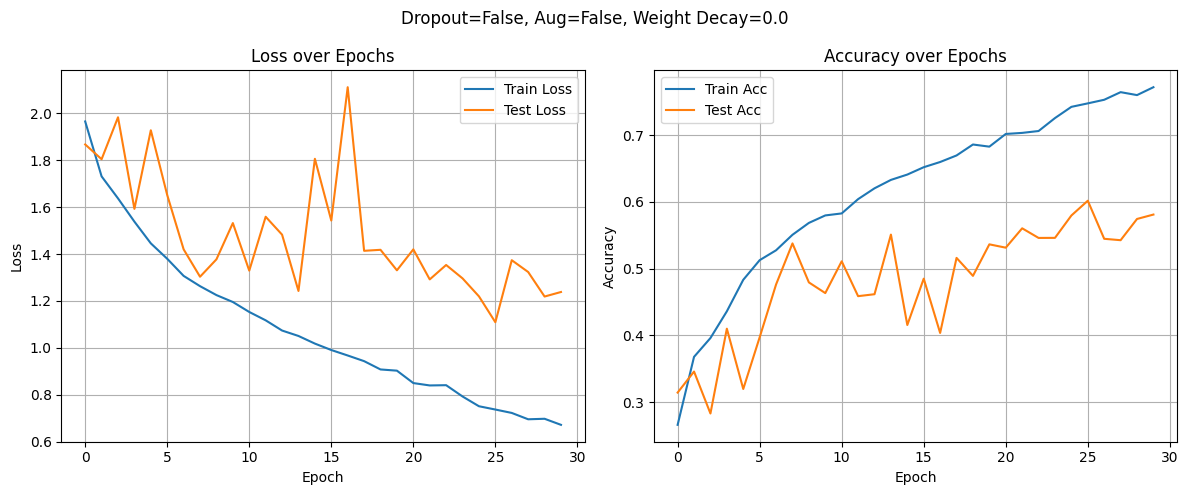
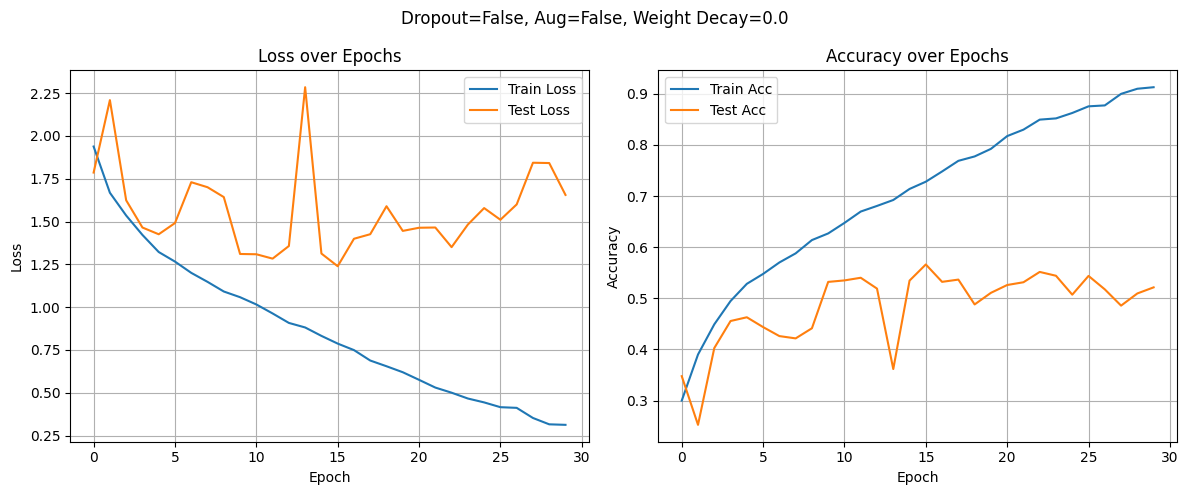
modified code

diff --git a/results/result.md b/results/result.md
@@ -1,38 +1,28 @@
 ## Discussion
 
-- Dropout이 단일 기법으로는 가장 효과적이었음
-- 데이터 증강은 단독으로 사용될 경우 효과가 제한적
-- 실험 B가 가장 안정적인 모델임을 관찰함
-- 과적합 감소 vs 성능 trade-off
+
 
 ---
 
 ## Experiment A: Basic model (Observe overfitting)
 - run_experiment(dropout=False, use_aug=False, weight_decay=0.0)
 - 정규화 기법을 사용하지 않은 기본 모델
-- Train Acc: 77.16%, Test Acc: 58.09%
-- Train Loss: 0.6719, Test Loss: 1.2383
-- 강한 과적합 관찰됨
+- Train Loss: 0.3127, Acc: 0.9128 | Test Loss: 1.6552, Acc: 0.5213
 
 ![Image](https://github.com/user-attachments/assets/10f7571a-a648-485b-98f0-d4f6a3220bc2)
-((0.6719401271282872, 1.2383258490805413), (0.7716, 0.5809))
 
 ## Experiment B: Dropout only
 - run_experiment(dropout=True, use_aug=False, weight_decay=0.0)
 - Dropout만 사용한 모델
-- Train Acc: 59.42%, Test Acc: 56.47%
-- Train Loss: 1.1168, Test Loss: 1.2057
-- 과적합은 감소했으나, 전체적인 성능이 A보다 낮아짐
+- Train Loss: 0.8413, Acc: 0.6992 | Test Loss: 1.8075, Acc: 0.4261
 
 ![Image](https://github.com/user-attachments/assets/7563d2f8-bb65-476c-89b3-acc3aee4ffa0)
-((1.1168080304242387, 1.205691329233206), (0.5942, 0.5647))
 
 ## Experiment C: Data Augmentation only
 - run_experiment(dropout=False, use_aug=True, weight_decay=0.0)
 - Data Augmentation만 사용한 모델
-- Train Acc: 66.68%, Test Acc: 47.68%
-- Train Loss: 0.9377, Test Loss: 1.7948
-- 과적합이 관찰되었고, 테스트 손실도 다른 모델에 비해 가장 큼.
+- Train Loss: 0.9378, Acc: 0.6708 | Test Loss: 1.5137, Acc: 0.5180
+
 
 ![Image](https://github.com/user-attachments/assets/b5e2720a-4d61-4c32-a699-f88968d73bcd)
 
@@ -40,10 +30,13 @@
 ## Experiment D: Dropout + Augmentation + Weight Decay
 - run_experiment(dropout=True, use_aug=True, weight_decay=1e-4)
 - 세가지 정규화 기법을 모두 적용한 모델
-- Train Acc: 56.00%, Test Acc: 50.21%
-- Train Loss: 1.2271, Test Loss: 1.3961
-- 과적합이 감소함. 그러나 테스트 정확도는 B보다 낮아짐. 
+- Train Loss: 1.2336, Acc: 0.5436 | Test Loss: 1.3148, Acc: 0.5227
 
 
 ![Image](https://github.com/user-attachments/assets/d92e9e04-ba27-4fa5-be36-e4b9148997c4)
-((1.2271296019795574, 1.3961455168997405), (0.56, 0.5021))
+
+## Experiment E: Weight Decay only
+- run_experiment(dropout=False, use_aug=False, weight_decay=1e-4)
+- Weight decay만 적용한 모델
+- Train Loss: 0.2769, Acc: 0.9286 | Test Loss: 2.4990, Acc: 0.4451
+
